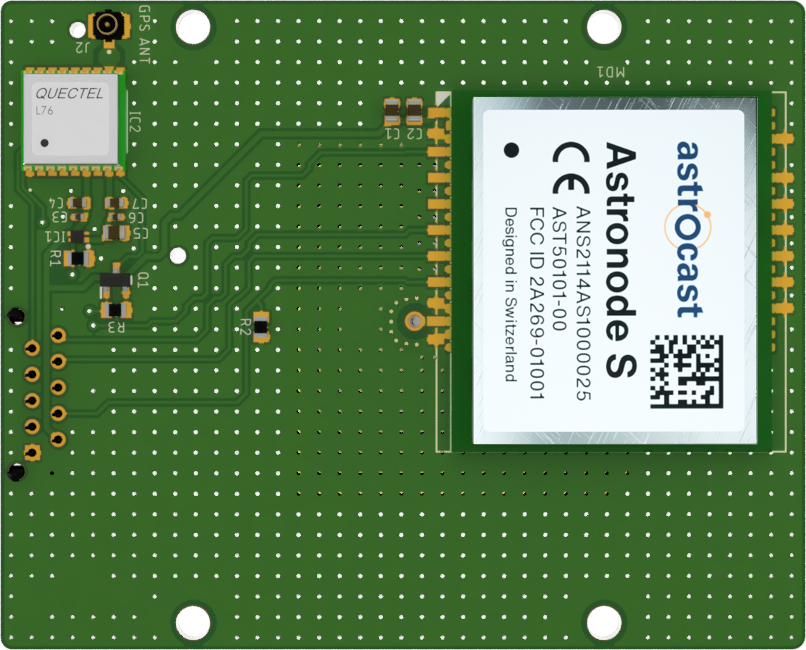
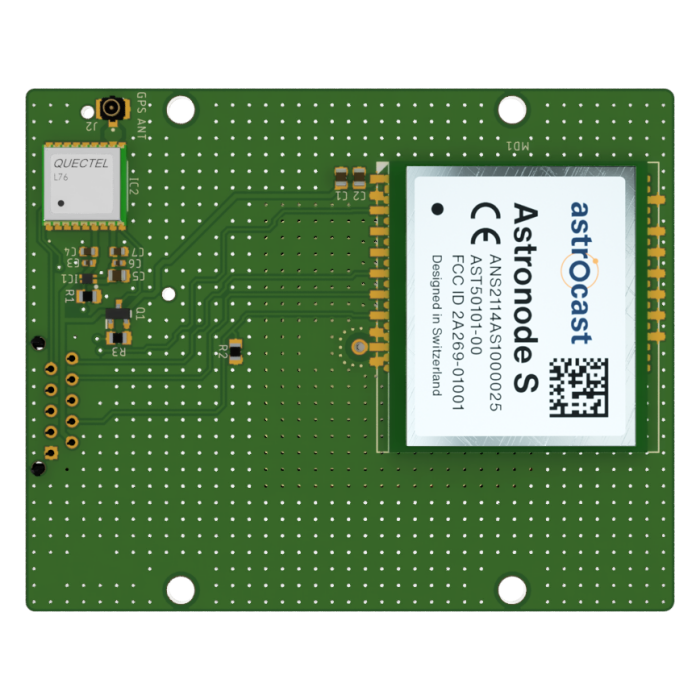
fix astrocast reflink + update astrocast image size + added flipped size image of shield.

diff --git a/content/hardware/shields/_index.en.md b/content/hardware/shields/_index.en.md
@@ -17,6 +17,6 @@ weight: 2
 
 | Radio Shields  |
 | :-: | :-: |
-| [![shield lora gps](/images/deviceimages/insighio-shield-lora.png)]({{< relref "./radio/insighio-shield-lora.md" >}}) |  [![shield lora gps](/images/deviceimages/insighio-shield-astrocast.png)]({{< relref "./radio/insighio-shield-lora.md" >}}) |
+| [![shield lora gps](/images/deviceimages/insighio-shield-lora.png)]({{< relref "./radio/insighio-shield-lora.md" >}}) |  [![shield astrocast](/images/deviceimages/insighio-shield-astrocast.png)]({{< relref "./radio/insighio-shield-astrocast.md" >}}) |
 | LoRa shield | Satellite shield (ASTROCAST) |
 {{< /customtable >}}

diff --git a/content/hardware/shields/radio/insighio-shield-astrocast.md b/content/hardware/shields/radio/insighio-shield-astrocast.md
@@ -5,7 +5,11 @@ parent: "hardware@shields@radio"
 weight: 240
 ---
 
-![shield satellite astrocast gps](/images/deviceimages/insighio-shield-astrocast.png?width=30pc)
+{{< customtable "table autowidth" >}}
+| |
+| :-: | :-: |
+| ![shield satellite astrocast gps](/images/deviceimages/insighio-shield-astrocast.png?width=30pc) | ![shield satellite astrocast gps flipped](/images/deviceimages/insighio-shield-astrocast-flipped.png?width=30pc) |
+{{< /customtable >}}
 
 ### Scope
 
